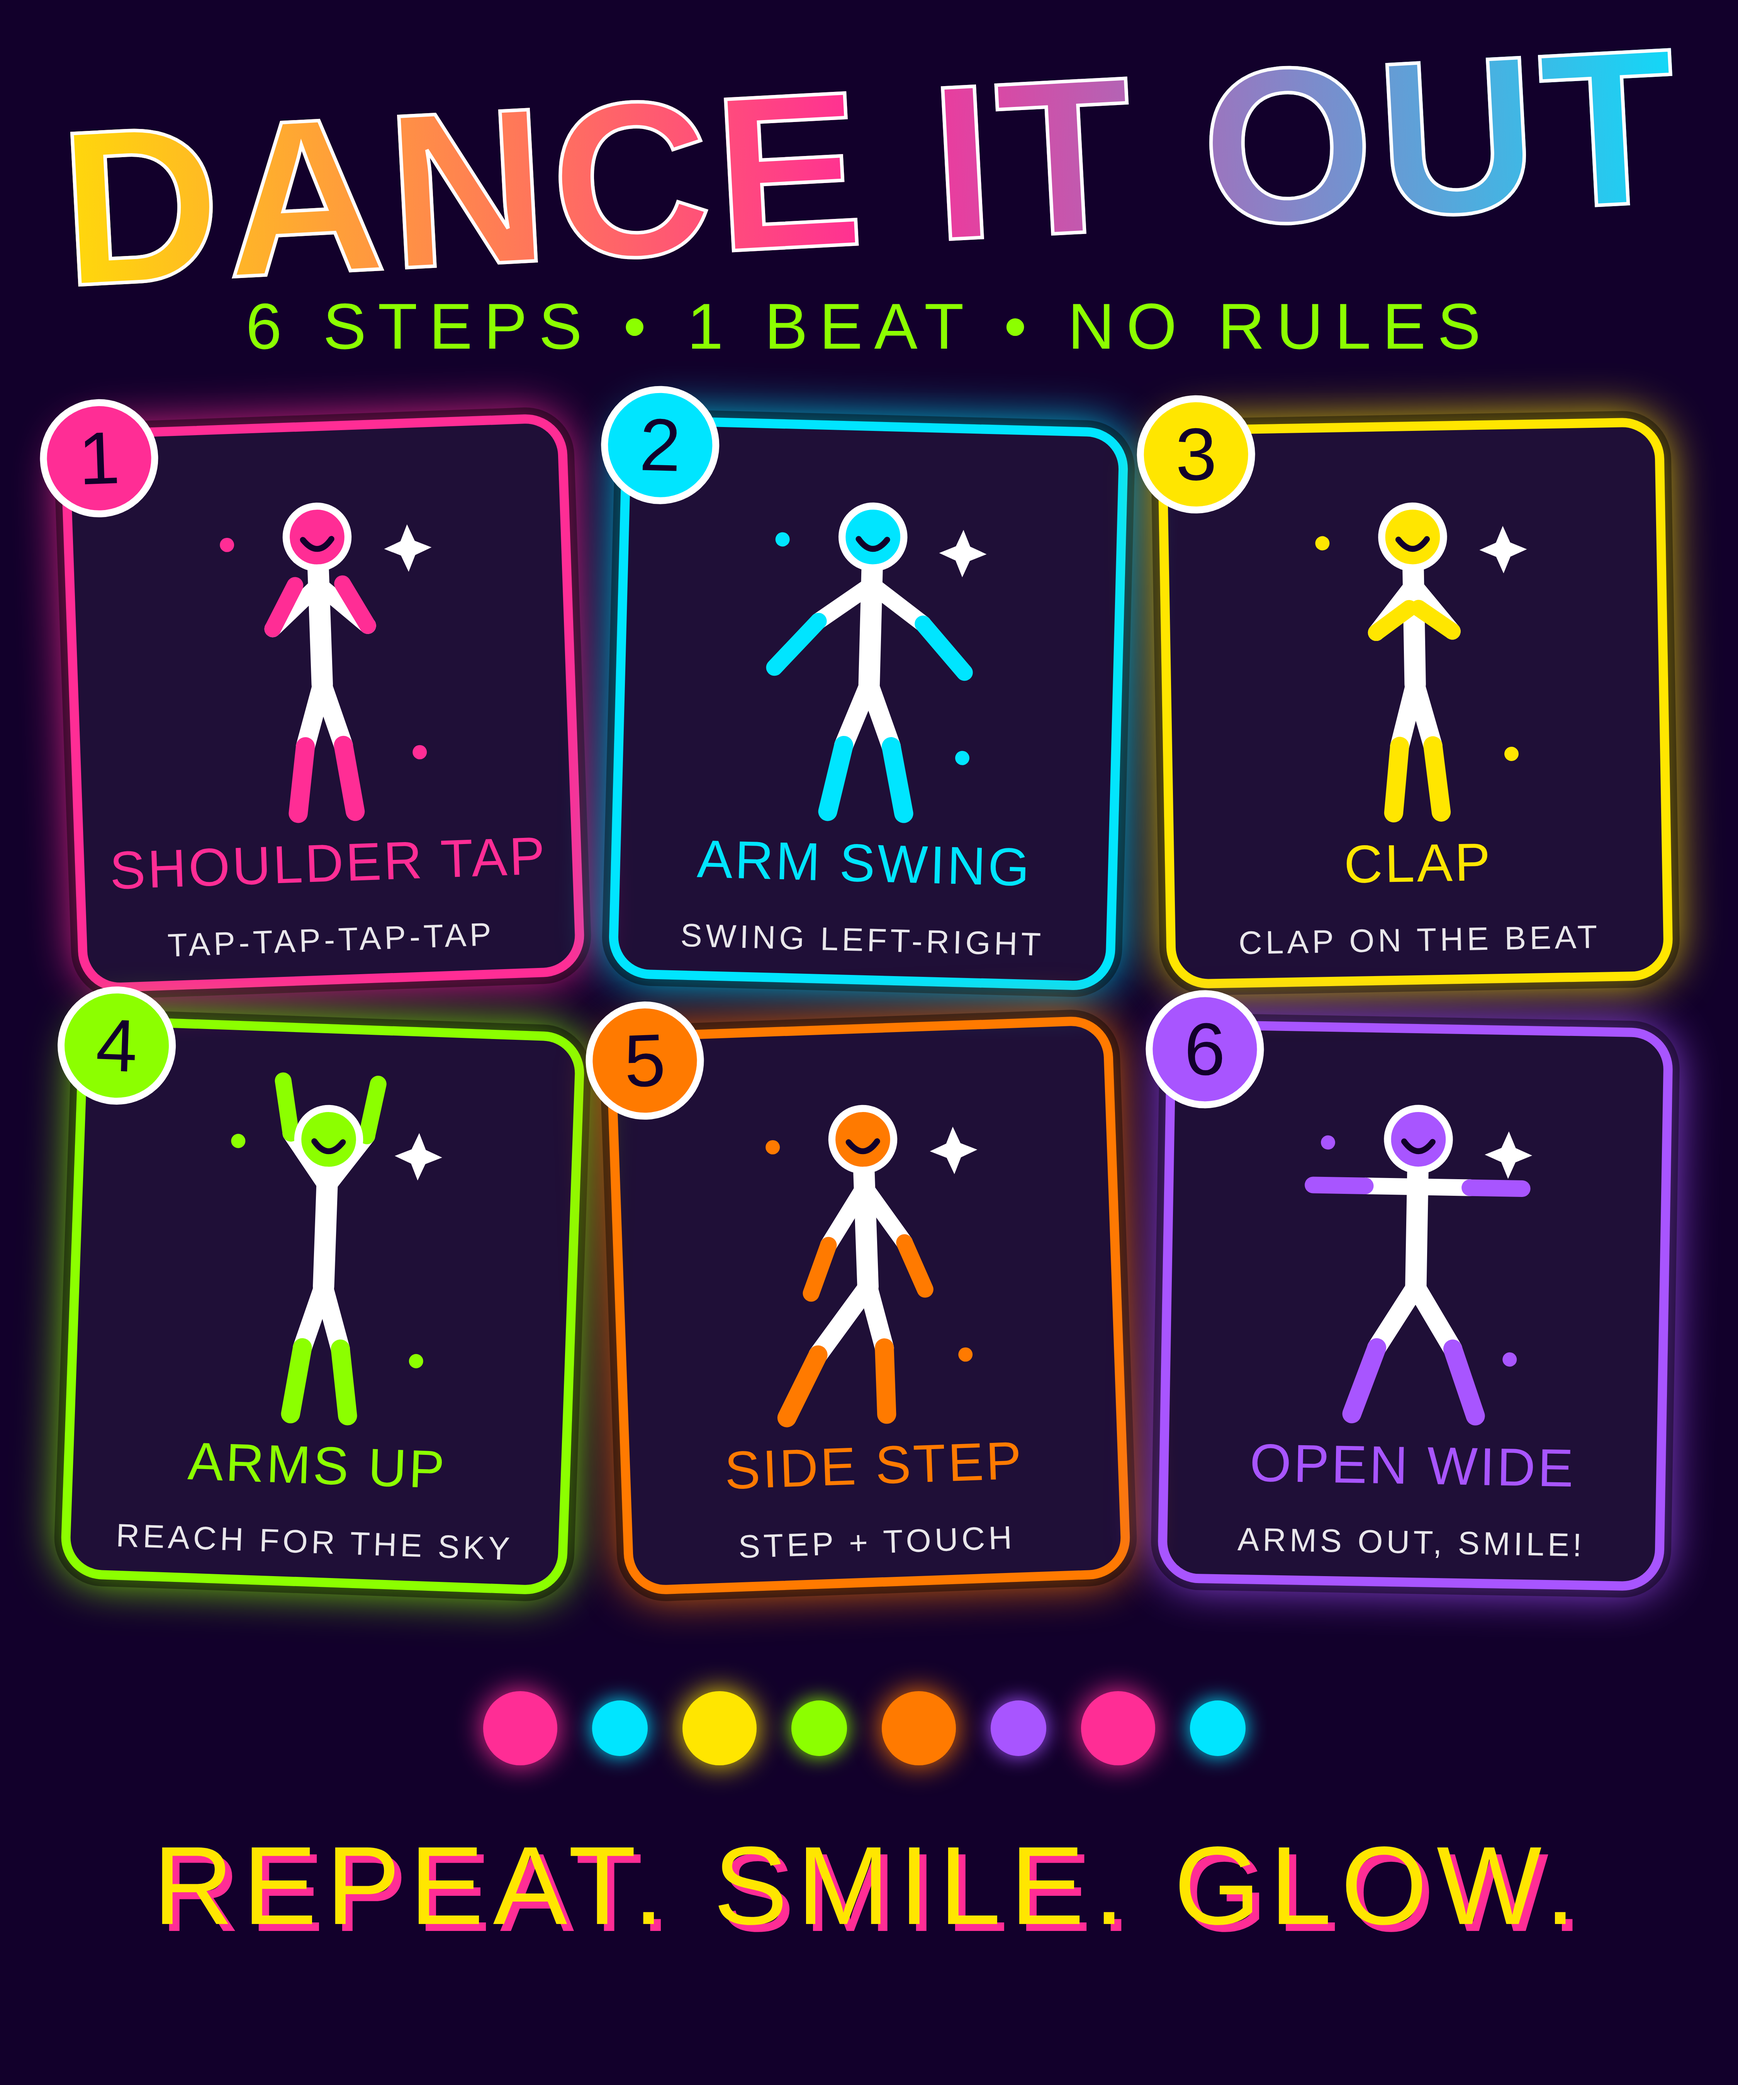
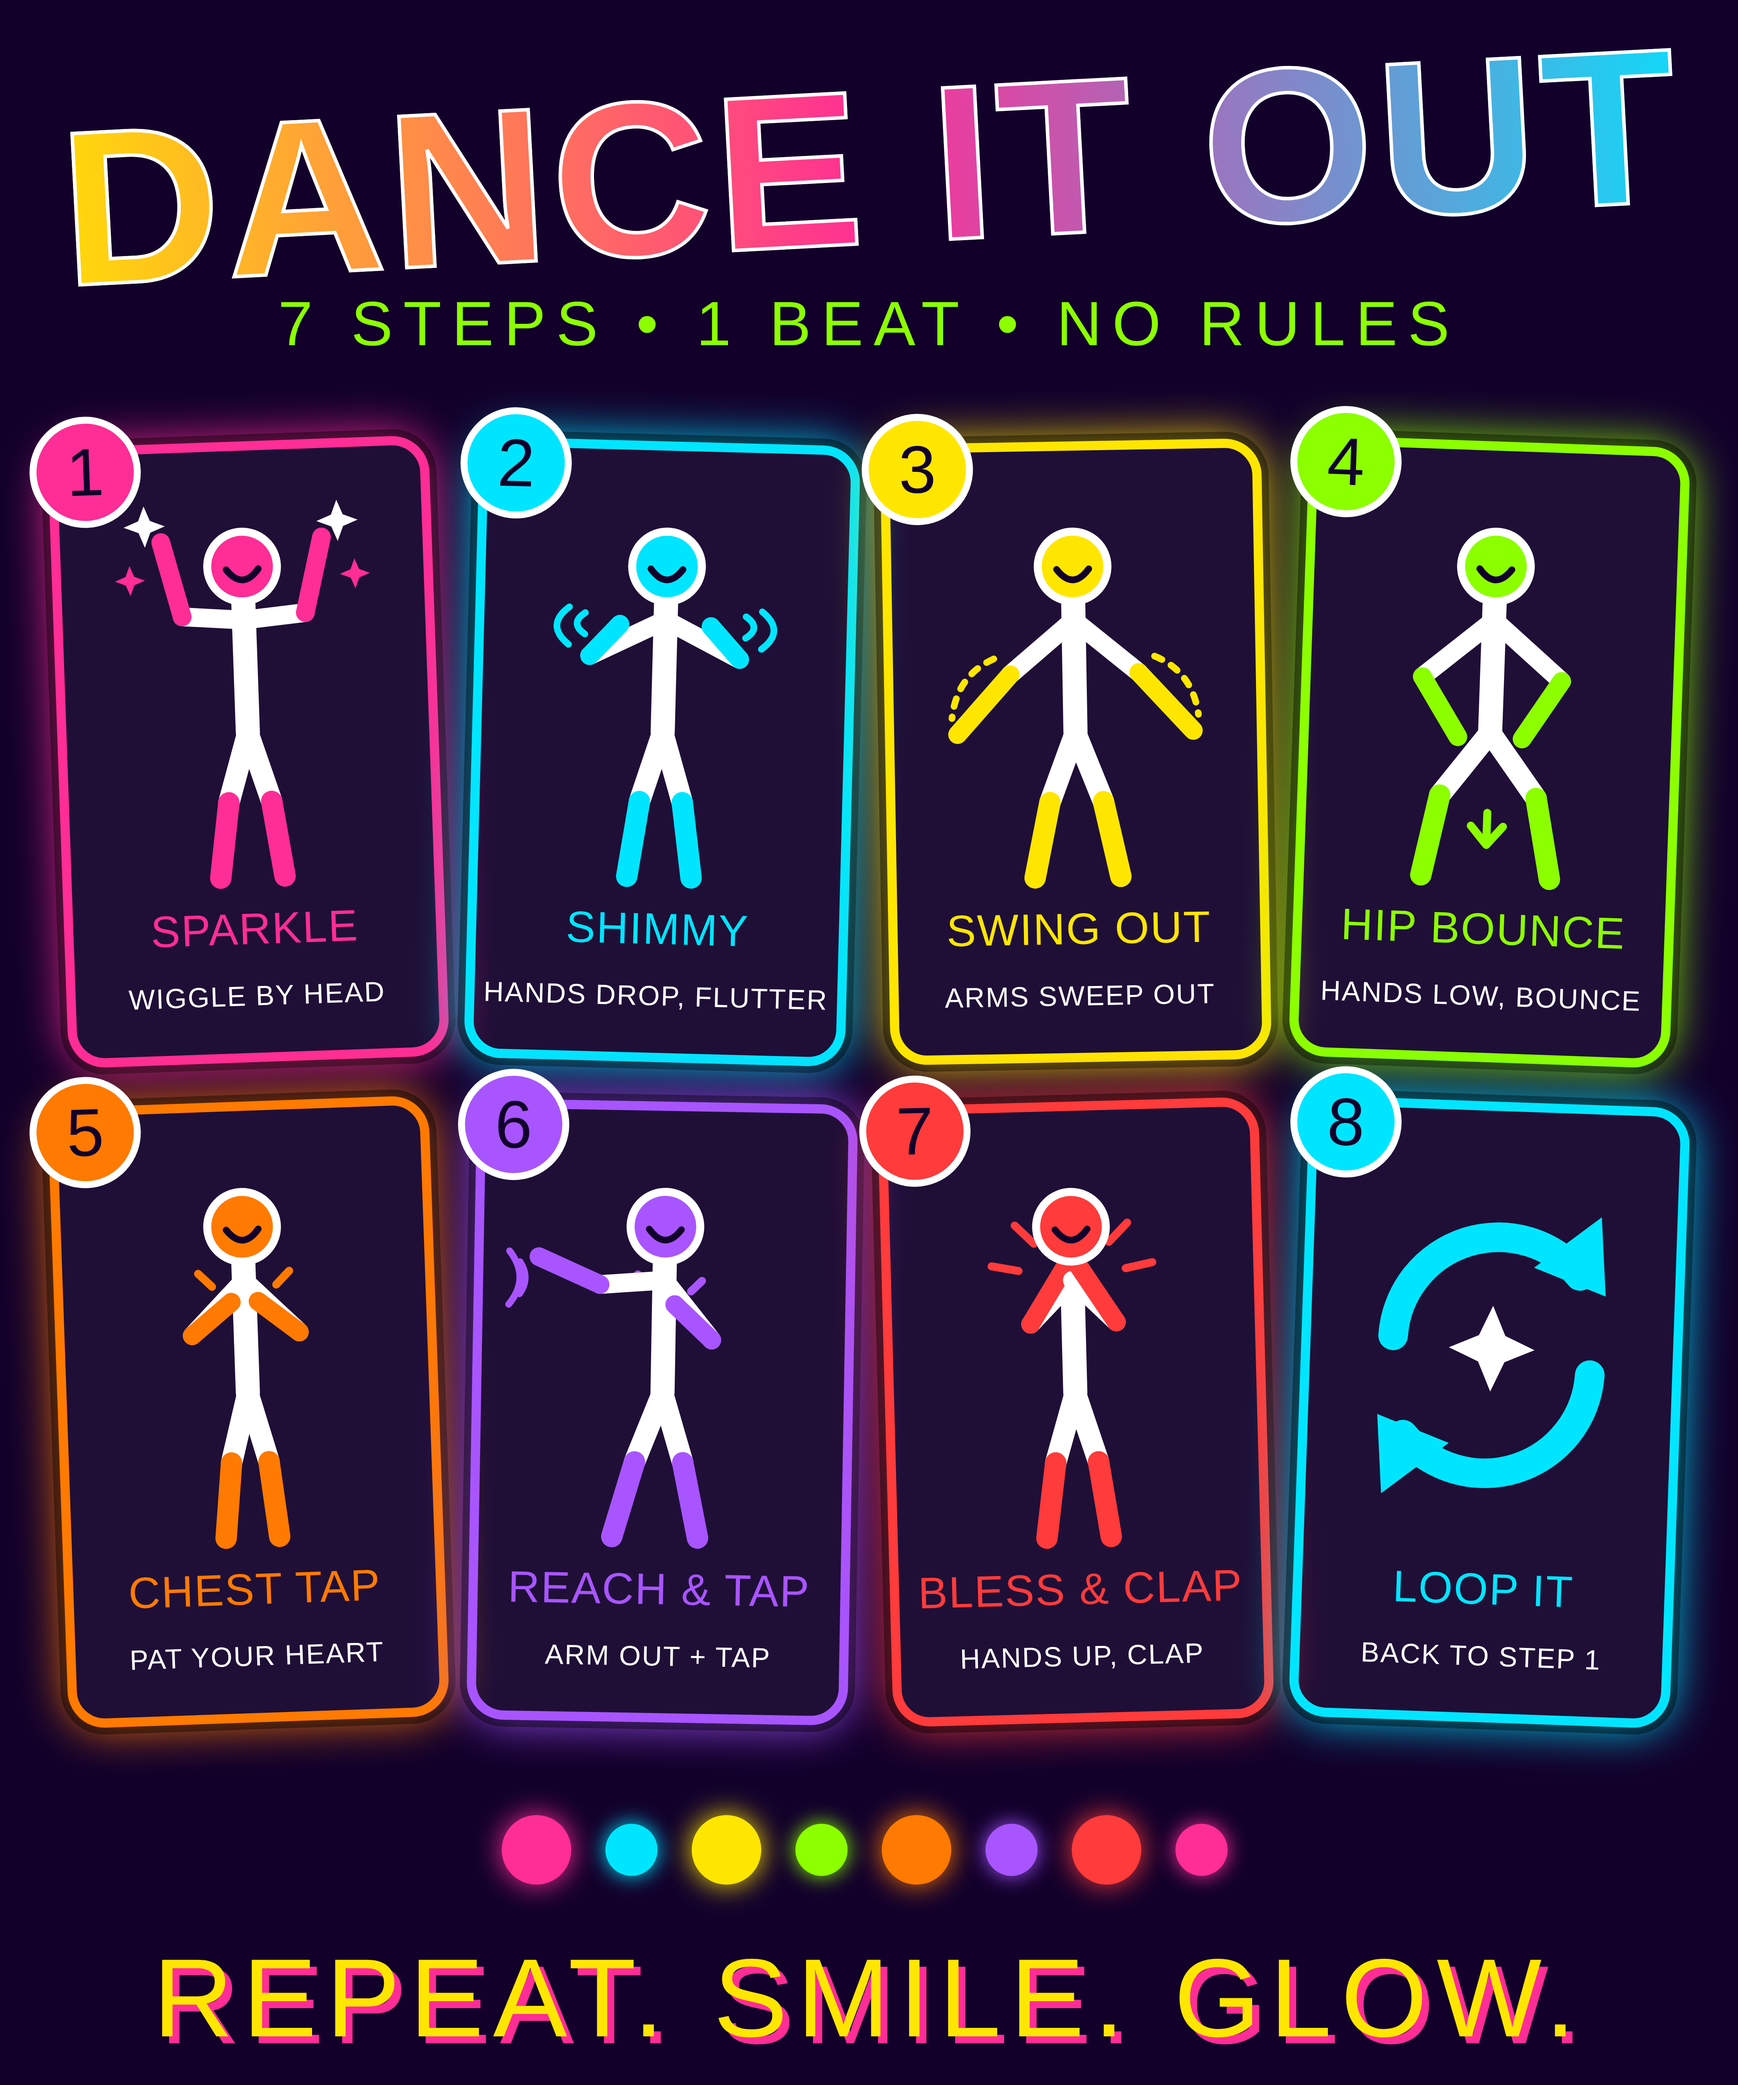
Rebuild infographic from tutorial footage: 7 moves + loop
Claude-Session: https://claude.ai/code/session_01Nfcsyw4RtD1DsBygXYMqCj

diff --git a/infographic.html b/infographic.html
@@ -3,66 +3,93 @@
 <title>Dance It Out Infographic</title>
 <meta name="viewport" content="width=device-width,initial-scale=1">
 <style>
-  :root{--pink:#ff2d95;--cyan:#00e5ff;--yellow:#ffe600;--lime:#8cff00;--orange:#ff7a00;--violet:#a855ff;--ink:#12002b;}
+  :root{--pink:#ff2d95;--cyan:#00e5ff;--yellow:#ffe600;--lime:#8cff00;--orange:#ff7a00;--violet:#a855ff;--red:#ff3b3b;--ink:#12002b;}
   html,body{margin:0;background:#12002b;}
   #art{width:1500px;height:1800px;position:relative;font-family:"Impact","Arial Black",sans-serif;color:#fff;overflow:hidden}
   h1{margin:0;text-align:center;font-size:190px;line-height:.9;letter-spacing:4px;text-transform:uppercase;
      background:linear-gradient(90deg,var(--yellow),var(--pink),var(--cyan));-webkit-background-clip:text;background-clip:text;color:transparent;
      -webkit-text-stroke:3px #fff;paint-order:stroke fill;transform:rotate(-3deg);padding-top:60px}
-  .sub{text-align:center;font-size:56px;letter-spacing:10px;color:var(--lime);margin-top:18px}
-  .grid{display:grid;grid-template-columns:repeat(3,1fr);gap:34px;padding:50px 60px 0}
-  .card{border:8px solid var(--c);border-radius:36px;background:rgba(255,255,255,.06);position:relative;height:470px;
+  .sub{text-align:center;font-size:54px;letter-spacing:9px;color:var(--lime);margin-top:18px}
+  .grid{display:grid;grid-template-columns:repeat(4,1fr);gap:34px 28px;padding:70px 50px 0}
+  .card{border:8px solid var(--c);border-radius:32px;background:rgba(255,255,255,.06);position:relative;height:520px;
         box-shadow:0 0 0 6px rgba(0,0,0,.4),0 0 40px var(--c);transform:rotate(var(--r))}
-  .num{position:absolute;top:-34px;left:-26px;width:90px;height:90px;border-radius:50%;background:var(--c);color:var(--ink);
-       font-size:64px;display:flex;align-items:center;justify-content:center;border:6px solid #fff}
-  .card svg{position:absolute;left:0;top:30px;width:100%;height:320px}
-  .name{position:absolute;bottom:70px;width:100%;text-align:center;font-size:46px;color:var(--c);letter-spacing:2px}
-  .cnt{position:absolute;bottom:14px;width:100%;text-align:center;font-size:28px;color:#fff;letter-spacing:3px;white-space:nowrap;opacity:.9}
-  .beat{display:flex;justify-content:center;gap:22px;margin-top:90px}
-  .beat i{width:64px;height:64px;border-radius:50%;display:block}
-  .foot{text-align:center;margin-top:50px;font-size:96px;letter-spacing:8px;color:var(--yellow);text-shadow:6px 6px 0 var(--pink)}
+  .num{position:absolute;top:-34px;left:-24px;width:84px;height:84px;border-radius:50%;background:var(--c);color:var(--ink);
+       font-size:58px;display:flex;align-items:center;justify-content:center;border:6px solid #fff;z-index:2}
+  .card svg{position:absolute;left:0;top:26px;width:100%;height:370px}
+  .name{position:absolute;bottom:84px;width:100%;text-align:center;font-size:38px;color:var(--c);letter-spacing:1px;white-space:nowrap}
+  .cnt{position:absolute;bottom:34px;width:100%;text-align:center;font-size:24px;color:#fff;letter-spacing:1px;white-space:nowrap}
+  .beat{display:flex;justify-content:center;gap:22px;margin-top:80px}
+  .beat i{width:60px;height:60px;border-radius:50%;display:block}
+  .foot{text-align:center;margin-top:44px;font-size:96px;letter-spacing:8px;color:var(--yellow);text-shadow:6px 6px 0 var(--pink)}
 </style></head>
 <body>
 <div id="art">
   <h1>Dance It Out</h1>
-  <div class="sub">6 STEPS &bull; 1 BEAT &bull; NO RULES</div>
+  <div class="sub">7 STEPS &bull; 1 BEAT &bull; NO RULES</div>
   <div class="grid" id="grid"></div>
   <div class="beat" id="beat"></div>
   <div class="foot">REPEAT. SMILE. GLOW.</div>
 </div>
 <script>
+// Poses reconstructed from frames of a tutorial screen recording (about 3.7s, 8 fps).
 // joints on a 100x140 canvas: [x,y]
 const base={head:[50,18],neck:[50,32],hip:[50,80]};
+const col=["#ff2d95","#00e5ff","#ffe600","#8cff00","#ff7a00","#a855ff","#ff3b3b","#00e5ff"];
 const poses=[
- {n:"SHOULDER TAP",c:"var(--pink)",r:"-2deg",cnt:"TAP-TAP-TAP-TAP",
-  lE:[30,56],lH:[40,38],rE:[70,56],rH:[60,38],lK:[42,106],lF:[38,134],rK:[58,106],rF:[62,134]},
- {n:"ARM SWING",c:"var(--cyan)",r:"1.5deg",cnt:"SWING LEFT-RIGHT",
-  lE:[28,54],lH:[10,74],rE:[72,54],rH:[90,74],lK:[40,106],lF:[34,134],rK:[60,106],rF:[66,134]},
- {n:"CLAP",c:"var(--yellow)",r:"-1deg",cnt:"CLAP ON THE BEAT",
-  lE:[34,58],lH:[48,48],rE:[66,58],rH:[52,48],lK:[43,106],lF:[40,134],rK:[57,106],rF:[60,134]},
- {n:"ARMS UP",c:"var(--lime)",r:"2deg",cnt:"REACH FOR THE SKY",
-  lE:[34,16],lH:[30,-6],rE:[66,16],rH:[70,-6],lK:[42,106],lF:[38,134],rK:[58,106],rF:[62,134]},
- {n:"SIDE STEP",c:"var(--orange)",r:"-2deg",cnt:"STEP + TOUCH",
-  lE:[34,62],lH:[26,82],rE:[66,62],rH:[74,82],lK:[28,108],lF:[14,134],rK:[56,106],rF:[56,134]},
- {n:"OPEN WIDE",c:"var(--violet)",r:"1deg",cnt:"ARMS OUT, SMILE!",
-  lE:[28,38],lH:[6,38],rE:[72,38],rH:[94,38],lK:[34,106],lF:[24,134],rK:[66,106],rF:[76,134]}
+ {n:"SPARKLE",r:"-2deg",cnt:"WIGGLE BY HEAD",
+  lE:[27,36],lH:[20,8],rE:[73,36],rH:[80,8],lK:[42,106],lF:[38,134],rK:[58,106],rF:[62,134],fx:"spark"},
+ {n:"SHIMMY",r:"1.5deg",cnt:"HANDS DROP, FLUTTER",
+  lE:[22,52],lH:[33,40],rE:[78,52],rH:[67,40],lK:[42,106],lF:[38,134],rK:[58,106],rF:[62,134],fx:"shimmy"},
+ {n:"SWING OUT",r:"-1deg",cnt:"ARMS SWEEP OUT",
+  lE:[26,58],lH:[6,80],rE:[74,58],rH:[94,80],lK:[40,106],lF:[34,134],rK:[60,106],rF:[66,134],fx:"swish"},
+ {n:"HIP BOUNCE",r:"2deg",cnt:"HANDS LOW, BOUNCE",
+  lE:[24,60],lH:[38,82],rE:[76,60],rH:[62,82],lK:[32,104],lF:[26,134],rK:[68,104],rF:[74,134],fx:"bounce"},
+ {n:"CHEST TAP",r:"-2deg",cnt:"PAT YOUR HEART",
+  lE:[30,58],lH:[45,46],rE:[70,58],rH:[55,46],lK:[43,106],lF:[40,134],rK:[57,106],rF:[60,134],fx:"tap"},
+ {n:"REACH & TAP",r:"1deg",cnt:"ARM OUT + TAP",
+  lE:[26,40],lH:[3,30],rE:[68,60],rH:[54,47],lK:[40,106],lF:[32,134],rK:[58,106],rF:[64,134],fx:"reach"},
+ {n:"BLESS & CLAP",r:"-1.5deg",cnt:"HANDS UP, CLAP",
+  lE:[34,54],lH:[48,32],rE:[66,54],rH:[52,32],lK:[42,106],lF:[38,134],rK:[58,106],rF:[62,134],fx:"burst"}
 ];
-const col=["#ff2d95","#00e5ff","#ffe600","#8cff00","#ff7a00","#a855ff"];
 const L=(a,b,w,c)=>`<line x1="${a[0]}" y1="${a[1]}" x2="${b[0]}" y2="${b[1]}" stroke="${c}" stroke-width="${w}" stroke-linecap="round"/>`;
-const grid=document.getElementById("grid");
-poses.forEach((p,i)=>{
+const star=(x,y,s,c)=>`<path transform="translate(${x} ${y}) scale(${s})" d="M0 -7l2 5 5 2-5 2-2 5-2-5-5-2 5-2z" fill="${c}"/>`;
+function fx(p,c){
+  const T=p.fx;
+  if(T==="spark")return star(14,2,1.1,"#fff")+star(86,2,1.1,"#fff")+star(8,22,.8,c)+star(92,22,.8,c);
+  if(T==="shimmy")return `<path d="M20 36q-6 4 0 8M14 34q-9 7 0 14M80 36q6 4 0 8M86 34q9 7 0 14" stroke="${c}" stroke-width="2.5" fill="none" stroke-linecap="round"/>`;
+  if(T==="swish")return `<path d="M20 52q-14 6-16 22M80 52q14 6 16 22" stroke="${c}" stroke-width="2.5" fill="none" stroke-linecap="round" stroke-dasharray="3 4"/>`;
+  if(T==="bounce")return `<path d="M50 110v10m-6-5l6 7 6-7" stroke="${c}" stroke-width="3" fill="none" stroke-linecap="round" stroke-linejoin="round"/>`;
+  if(T==="tap")return `<path d="M38 40l-5-5M62 40l5-5M50 36v-6" stroke="${c}" stroke-width="3" stroke-linecap="round"/>`;
+  if(T==="reach")return `<path d="M-4 44q4-6 0-12M-8 48q8-10 0-20" stroke="${c}" stroke-width="2.5" fill="none" stroke-linecap="round"/>`+`<path d="M44 40l-4-4M60 42l4-4" stroke="${c}" stroke-width="3" stroke-linecap="round"/>`;
+  if(T==="burst")return `<path d="M50 20v-10M36 24l-7-7M64 24l7-7M30 34l-10-2M70 34l10-2" stroke="${c}" stroke-width="3" stroke-linecap="round"/>`;
+  return "";
+}
+function figure(p,c){
   const sh=[50,38];
   const body=L(base.neck,base.hip,9,"#fff")+
-    L(sh,p.lE,7,"#fff")+L(p.lE,p.lH,7,col[i])+L(sh,p.rE,7,"#fff")+L(p.rE,p.rH,7,col[i])+
-    L(base.hip,p.lK,8,"#fff")+L(p.lK,p.lF,8,col[i])+L(base.hip,p.rK,8,"#fff")+L(p.rK,p.rF,8,col[i]);
-  const face=`<circle cx="50" cy="18" r="13" fill="${col[i]}" stroke="#fff" stroke-width="3"/>
+    L(sh,p.lE,7,"#fff")+L(p.lE,p.lH,7,c)+L(sh,p.rE,7,"#fff")+L(p.rE,p.rH,7,c)+
+    L(base.hip,p.lK,8,"#fff")+L(p.lK,p.lF,8,c)+L(base.hip,p.rK,8,"#fff")+L(p.rK,p.rF,8,c);
+  const face=`<circle cx="50" cy="18" r="13" fill="${c}" stroke="#fff" stroke-width="3"/>
     <path d="M44 19 Q50 27 56 19" stroke="#12002b" stroke-width="2.5" fill="none" stroke-linecap="round"/>`;
-  const sparks=`<circle cx="12" cy="20" r="3" fill="${col[i]}"/><circle cx="90" cy="110" r="3" fill="${col[i]}"/><path d="M88 14l3 7 7 3-7 3-3 7-3-7-7-3 7-3z" fill="#fff"/>`;
+  return body+face;
+}
+const grid=document.getElementById("grid");
+poses.forEach((p,i)=>{
+  const c=col[i];
   grid.insertAdjacentHTML("beforeend",
-   `<div class="card" style="--c:${col[i]};--r:${p.r}"><div class="num">${i+1}</div>
-    <svg viewBox="-5 -12 110 156">${sparks}${body}${face}</svg>
+   `<div class="card" style="--c:${c};--r:${p.r}"><div class="num">${i+1}</div>
+    <svg viewBox="-14 -14 128 160" overflow="visible">${fx(p,c)}${figure(p,c)}</svg>
     <div class="name">${p.n}</div><div class="cnt">${p.cnt}</div></div>`);
 });
+// card 8: loop
+const c8=col[7];
+grid.insertAdjacentHTML("beforeend",
+ `<div class="card" style="--c:${c8};--r:2deg"><div class="num">8</div>
+  <svg viewBox="0 0 100 130"><g fill="none" stroke="${c8}" stroke-width="9" stroke-linecap="round">
+   <path d="M20 60a32 32 0 0 1 56-20"/><path d="M80 70a32 32 0 0 1-56 20"/></g>
+   <path d="M82 22l2 24-22-8z" fill="${c8}"/><path d="M18 108l-2-24 22 8z" fill="${c8}"/>
+   <path d="M50 50l4 9 9 4-9 4-4 9-4-9-9-4 9-4z" fill="#fff"/></svg>
+  <div class="name">LOOP IT</div><div class="cnt">BACK TO STEP 1</div></div>`);
 const beat=document.getElementById("beat");
-for(let i=0;i<8;i++)beat.insertAdjacentHTML("beforeend",`<i style="background:${col[i%6]};box-shadow:0 0 24px ${col[i%6]};transform:scale(${i%2?.75:1})"></i>`);
+for(let i=0;i<8;i++)beat.insertAdjacentHTML("beforeend",`<i style="background:${col[i%7]};box-shadow:0 0 24px ${col[i%7]};transform:scale(${i%2?.75:1})"></i>`);
 </script></body></html>
